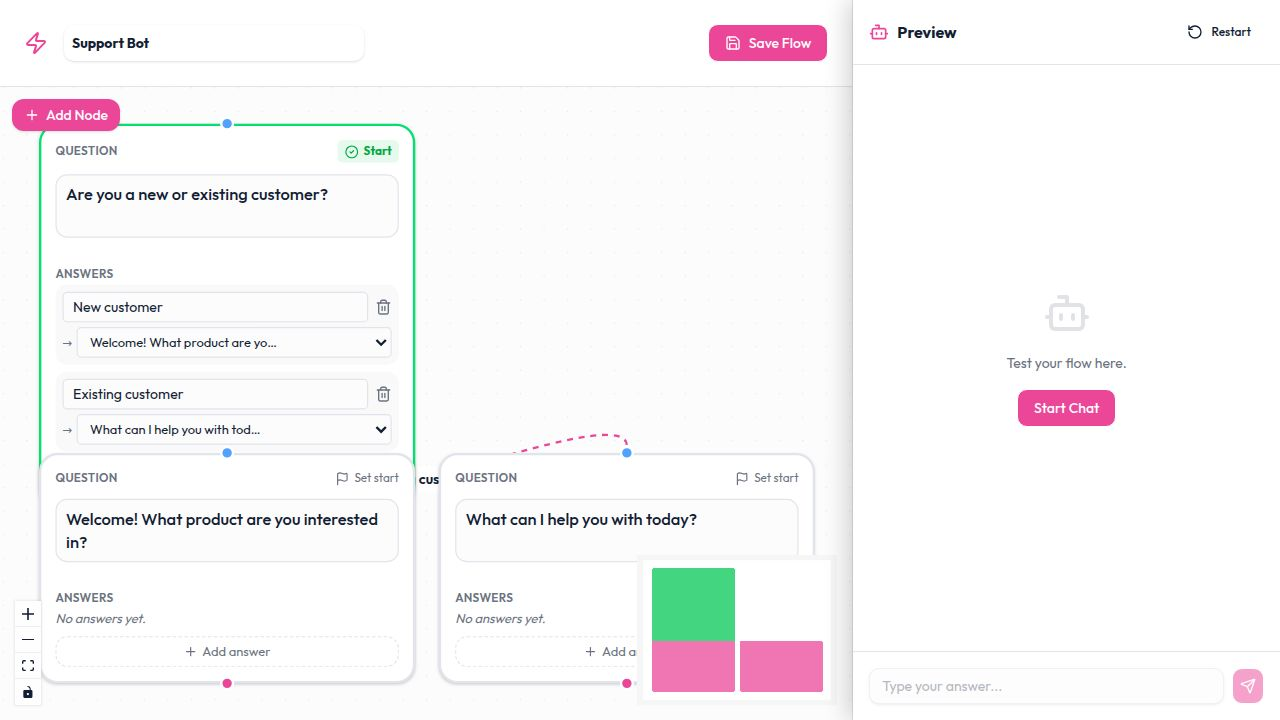
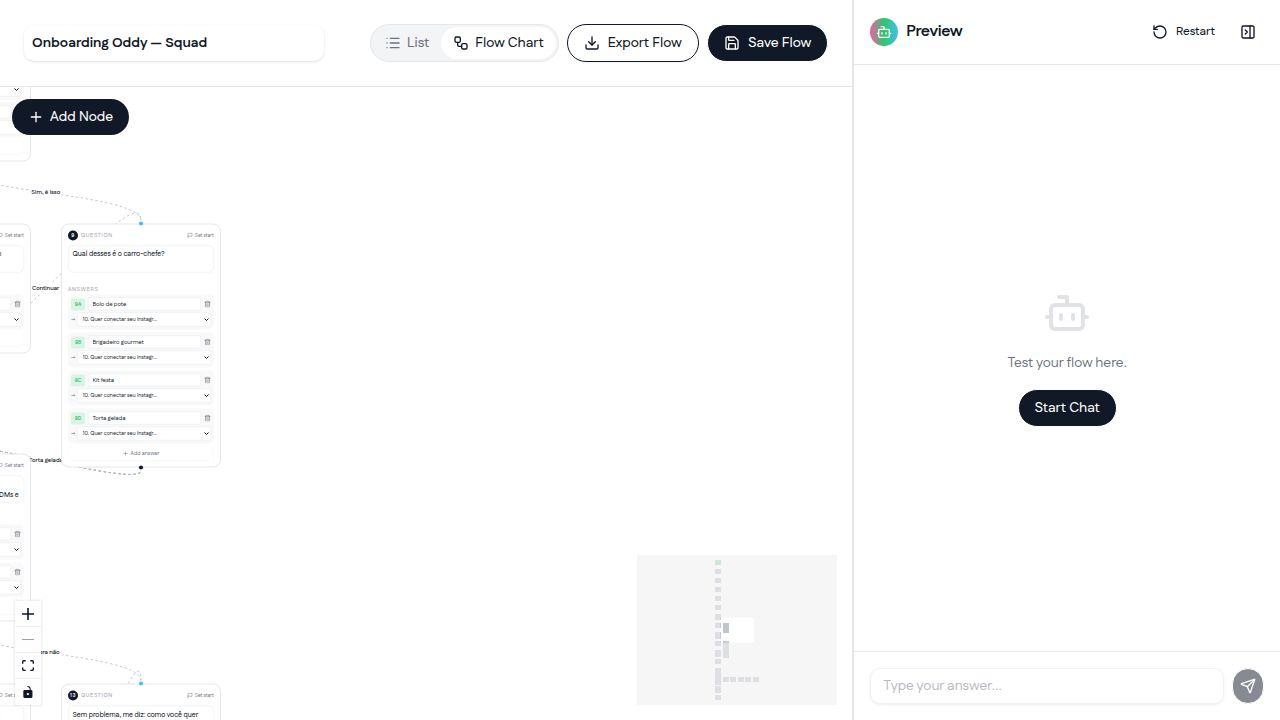
Fix error when displaying multi-part chat responses
Add logging for malformed input requests and refactor client-side logic for revealing chat bubbles to prevent content errors.

Replit-Commit-Author: Agent
Replit-Commit-Session-Id: d54bda82-03a9-448b-8c73-cf45e54ca219
Replit-Commit-Checkpoint-Type: full_checkpoint
Replit-Commit-Event-Id: 0402622f-2edb-4512-a1db-53779b649efd
Replit-Commit-Screenshot-Url: https://storage.googleapis.com/screenshot-production-us-central1/06480a66-ef1c-4c90-90d3-d6f1a8d13223/d54bda82-03a9-448b-8c73-cf45e54ca219/x5yYUgN
Replit-Helium-Checkpoint-Created: true

diff --git a/artifacts/flow-builder/src/components/chat-preview.tsx b/artifacts/flow-builder/src/components/chat-preview.tsx
@@ -85,22 +85,26 @@ export default function ChatPreview({
     }
 
     setRevealing(true);
-    let i = 1;
-    const step = () => {
+    // Reveal the remaining bubbles one at a time. The index is passed as an
+    // argument (not a mutable closure var) and the content is captured into a
+    // const, so the deferred setMessages updater can't read a stale/advanced
+    // index and push `undefined` content.
+    const revealFrom = (idx: number) => {
       if (session !== sessionRef.current) {
         setRevealing(false);
         return;
       }
-      setMessages((prev) => [...prev, { role: "assistant", content: parts[i] }]);
-      i += 1;
-      if (i < parts.length) {
-        revealTimerRef.current = setTimeout(step, typingDelayFor(parts[i]));
+      const content = parts[idx];
+      setMessages((prev) => [...prev, { role: "assistant", content }]);
+      const next = idx + 1;
+      if (next < parts.length) {
+        revealTimerRef.current = setTimeout(() => revealFrom(next), typingDelayFor(parts[next]));
       } else {
         setRevealing(false);
         finalize();
       }
     };
-    revealTimerRef.current = setTimeout(step, typingDelayFor(parts[1]));
+    revealTimerRef.current = setTimeout(() => revealFrom(1), typingDelayFor(parts[1]));
   };
 
   const startTimer = () => {

diff --git a/artifacts/api-server/src/routes/chat.ts b/artifacts/api-server/src/routes/chat.ts
@@ -25,6 +25,10 @@ interface Node {
 router.post("/chat", async (req, res) => {
   const parsed = SendChatBody.safeParse(req.body);
   if (!parsed.success) {
+    req.log.warn(
+      { issues: parsed.error.issues.map((i) => ({ path: i.path, code: i.code, message: i.message })) },
+      "Rejected chat input (400)",
+    );
     res.status(400).json({ error: "Invalid chat input", details: parsed.error.issues });
     return;
   }

diff --git a/.agents/memory/deferred-setstate-closures.md b/.agents/memory/deferred-setstate-closures.md
@@ -1,0 +1,29 @@
+---
+name: Deferred setState closures over mutable indices
+description: Why React functional-updater callbacks must not read a mutable loop/closure variable; capture the value first.
+---
+
+# Deferred setState updaters must not read mutable closure vars
+
+When scheduling sequential UI reveals (e.g. multi-bubble chat replies) with
+`setTimeout` + a React functional updater, do NOT have the updater read a
+mutable closure variable that you mutate synchronously after the `setState`
+call.
+
+**The trap:** `setMessages((prev) => [...prev, { content: parts[i] }]); i += 1;`
+React runs the updater LATER (during commit), by which time `i` has already
+advanced — so the updater reads `parts[i]` out of range and pushes `undefined`.
+
+**The fix:** pass the index as a function argument and capture the value into a
+`const` BEFORE calling `setState`:
+`const content = parts[idx]; setMessages((prev) => [...prev, { content }]);`
+
+**Why:** in Flow Builder this pushed an assistant message with
+`content: undefined`, which then failed server-side zod (`messages[n].content`
+is required) → `POST /api/chat` 400 → "Something went wrong generating a reply"
+on the user's first answer. Symptom looked like a backend/LLM failure but was a
+client payload-shape bug.
+
+**How to apply:** any time a deferred callback (timer, promise, raf) feeds data
+into setState, snapshot the data it needs at schedule/run time; never let it
+dereference a variable you keep mutating.

diff --git a/.agents/memory/MEMORY.md b/.agents/memory/MEMORY.md
@@ -1,5 +1,1 @@
-- [Replit managed AI gpt-5](replit-managed-ai-gpt5.md) — gpt-5 chat calls reject `temperature` and use `max_completion_tokens`, not `max_tokens`.
-- [api-client-react imports](api-client-react-imports.md) — import generated hooks/types from the barrel, never the deep generated path (breaks type resolution).
-- [React Flow controlled graph](react-flow-controlled-graph.md) — use useNodesState + reconcile from app state (never rebuild node objects each render, breaks dragging); mirror node-delete reference cleanup in every editor view.
-- [OpenRouter Sonar search](openrouter-sonar-search.md) — chat off-script answers use perplexity/sonar-pro-search (user-owned OPENROUTER_API_KEY); branch classification stays on gpt-5-mini, Sonar only on off-topic no-match.
-- [Codegen → server restart](codegen-server-restart.md) — after api-spec codegen adds a field, restart api-server or Zod silently strips it on PUT/GET; verify with a real round-trip, not just typecheck.
+- [Deferred setState closures](deferred-setstate-closures.md) — React functional updaters must capture values into a const, never read a mutable index you advance after the setState call.